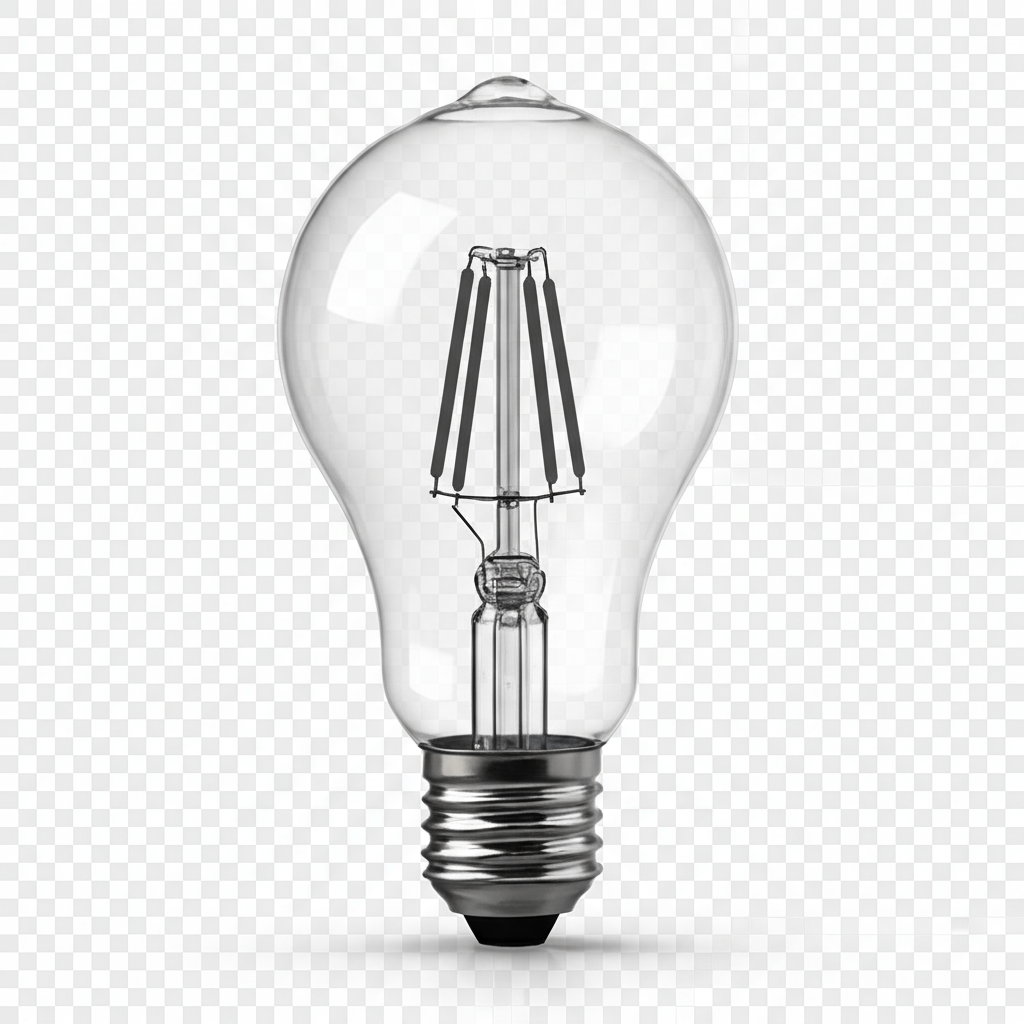
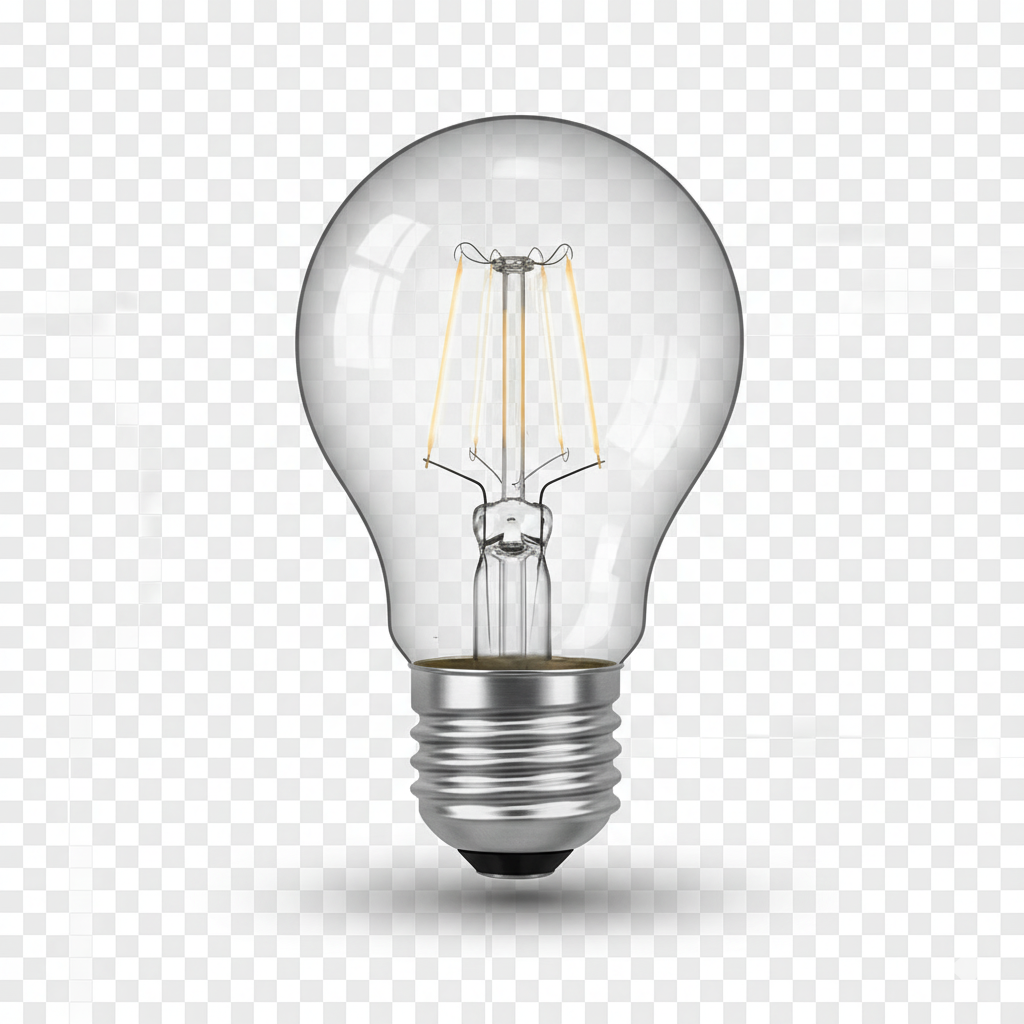
Refactor: Use provided lamp images

Changed region(s): [[0.25, 0.0625, 0.75, 1.0], [0.8125, 0.2188, 0.8438, 0.25]]

diff --git a/src/components/Hero.tsx b/src/components/Hero.tsx
@@ -2,6 +2,8 @@ import { Button } from "@/components/ui/button";
 import { Award, Zap } from "lucide-react";
 import { useTheme } from "next-themes";
 import { useEffect, useState } from "react";
+import lampadaAcesa from "@/assets/lampada-acesa.png";
+import lampadaApagada from "@/assets/lampada-apagada.png";
 
 const Hero = () => {
   const { theme } = useTheme();
@@ -30,95 +32,31 @@ const Hero = () => {
       {/* Background gradient */}
       <div className="absolute inset-0 bg-gradient-to-br from-background via-background to-primary/5"></div>
       
-      {/* Lâmpada SVG animada que responde ao tema */}
+      {/* Lâmpada PNG animada que responde ao tema */}
       {mounted && (
-        <div className="absolute top-0 left-1/2 -translate-x-1/2 pointer-events-none transition-all duration-700">
-          <svg 
-            className="w-[300px] h-[300px] md:w-[500px] md:h-[500px] rotate-180 transition-all duration-700 animate-fade-in"
-            viewBox="0 0 100 120" 
-            xmlns="http://www.w3.org/2000/svg"
+        <div className="absolute top-0 left-1/2 -translate-x-1/2 pointer-events-none w-[250px] h-[250px] md:w-[350px] md:h-[350px]">
+          {/* Lâmpada apagada */}
+          <img 
+            src={lampadaApagada}
+            alt="Lâmpada Apagada"
+            className="absolute top-0 left-0 w-full h-full object-contain transition-opacity duration-500 animate-fade-in"
             style={{
-              filter: theme === "light" 
-                ? "drop-shadow(0 0 10px rgba(255, 199, 0, 0.4)) drop-shadow(0 0 20px rgba(255, 199, 0, 0.3)) drop-shadow(0 0 30px rgba(255, 199, 0, 0.2))"
+              opacity: theme === "light" ? 0 : 1,
+              filter: "drop-shadow(0 5px 10px rgba(0,0,0,0.3))"
+            }}
+          />
+          {/* Lâmpada acesa */}
+          <img 
+            src={lampadaAcesa}
+            alt="Lâmpada Acesa"
+            className="absolute top-0 left-0 w-full h-full object-contain transition-opacity duration-500"
+            style={{
+              opacity: theme === "light" ? 1 : 0,
+              filter: theme === "light"
+                ? "drop-shadow(0 0 15px rgba(255, 200, 0, 0.7)) drop-shadow(0 0 30px rgba(255, 200, 0, 0.5)) drop-shadow(0 0 50px rgba(255, 200, 0, 0.3))"
                 : "drop-shadow(0 5px 10px rgba(0,0,0,0.3))"
             }}
-          >
-            {/* Bulbo apagado (modo escuro) */}
-            <g 
-              className="transition-opacity duration-700"
-              style={{ opacity: theme === "light" ? 0 : 1 }}
-            >
-              <path 
-                d="M50 10 C30 10 18 35 18 60 C18 80 30 90 50 90 C70 90 82 80 82 60 C82 35 70 10 50 10 Z" 
-                fill="rgba(25,25,25,0.7)" 
-                stroke="#666" 
-                strokeWidth="0.5"
-              />
-              <path 
-                d="M65 25 C60 20 40 20 35 25 L40 30 C45 25 55 25 60 30 Z" 
-                fill="rgba(255,255,255,0.1)"
-              />
-              <path 
-                d="M70 40 C65 35 45 35 40 40 L45 45 C50 40 60 40 65 45 Z" 
-                fill="rgba(255,255,255,0.05)"
-              />
-            </g>
-
-            {/* Bulbo aceso (modo claro) */}
-            <g 
-              className="transition-opacity duration-700"
-              style={{ opacity: theme === "light" ? 1 : 0 }}
-            >
-              <path 
-                d="M50 10 C30 10 18 35 18 60 C18 80 30 90 50 90 C70 90 82 80 82 60 C82 35 70 10 50 10 Z" 
-                fill="rgba(255,255,255,0.1)" 
-                stroke="#cccccc" 
-                strokeWidth="0.5"
-              />
-              <path 
-                d="M65 25 C60 20 40 20 35 25 L40 30 C45 25 55 25 60 30 Z" 
-                fill="rgba(255,255,255,0.4)"
-              />
-              <path 
-                d="M70 40 C65 35 45 35 40 40 L45 45 C50 40 60 40 65 45 Z" 
-                fill="rgba(255,255,255,0.2)"
-              />
-            </g>
-
-            {/* Filamento */}
-            <g className="transition-all duration-500">
-              <line 
-                x1="50" 
-                y1="65" 
-                x2="50" 
-                y2="72" 
-                stroke="#666" 
-                strokeWidth="0.8"
-                className="transition-all duration-500"
-              />
-              <path 
-                d="M45 72 C48 77, 52 77, 55 72" 
-                stroke={theme === "light" ? "#ffecb3" : "#666"}
-                strokeWidth={theme === "light" ? "2" : "1.5"}
-                fill="none"
-                className="transition-all duration-500"
-                style={{
-                  filter: theme === "light" 
-                    ? "drop-shadow(0 0 5px #ffecb3) drop-shadow(0 0 10px rgba(255,199,0,0.5))" 
-                    : ""
-                }}
-              />
-            </g>
-            
-            {/* Soquete */}
-            <g className="transition-all duration-500">
-              <rect x="38" y="90" width="24" height="4" rx="1" fill="#b0b0b0"/>
-              <rect x="36" y="94" width="28" height="4" rx="1" fill="#c0c0c0"/>
-              <rect x="38" y="98" width="24" height="4" rx="1" fill="#b0b0b0"/>
-              <rect x="36" y="102" width="28" height="4" rx="1" fill="#c0c0c0"/>
-              <path d="M40 106h20v4a2 2 0 0 1-2 2H42a2 2 0 0 1-2-2v-4z" fill="#444"/>
-            </g>
-          </svg>
+          />
         </div>
       )}
       
@@ -130,7 +68,7 @@ const Hero = () => {
         <div className="max-w-4xl mx-auto text-center space-y-8">
           {/* Main heading - H1 */}
           <h1 className="text-5xl md:text-7xl font-bold tracking-tight">
-            <span className="bg-gradient-to-r from-primary via-primary to-accent bg-clip-text text-transparent">
+            <span className="bg-gradient-to-r from-[#ff6b6b] via-[#f39c12] to-[#ffe66d] bg-clip-text text-transparent transition-all duration-700">
               D Muller Comércio
             </span>
           </h1>
